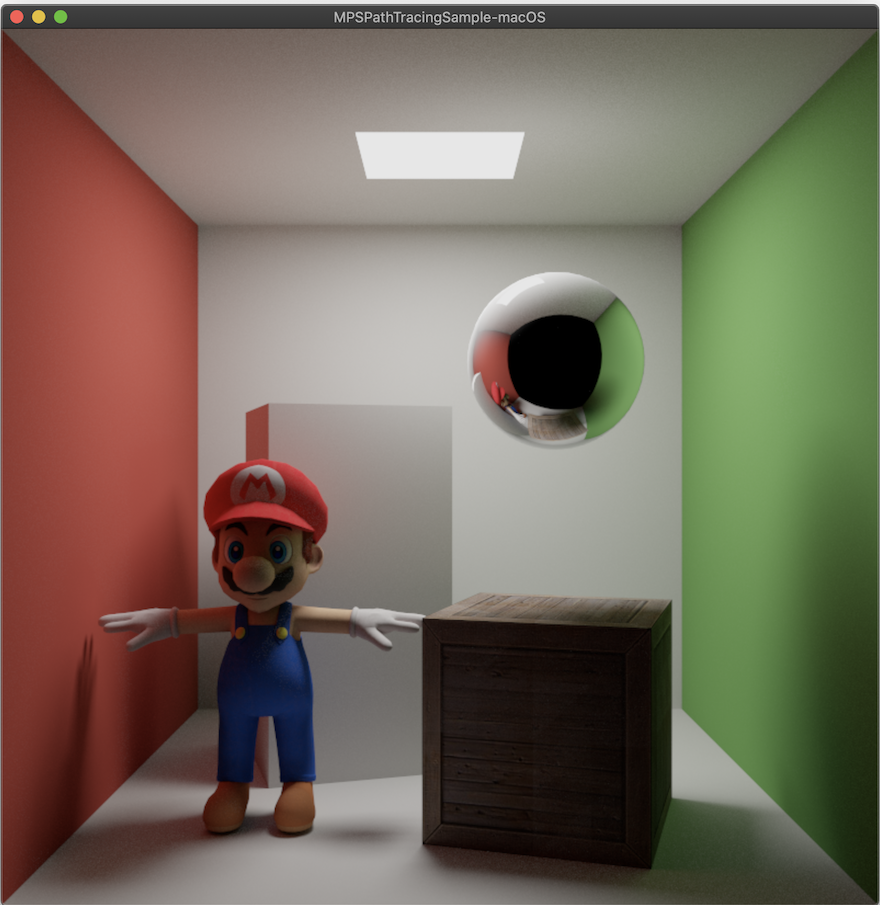
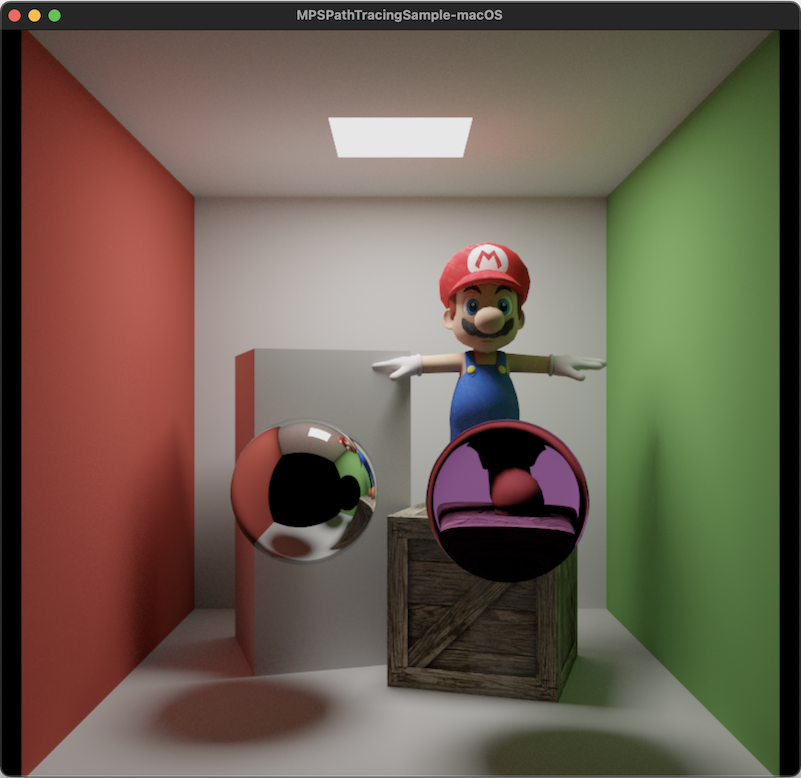
Added Reflection Blur and Refraction

diff --git a/MPSPathTracingSample/Renderer.mm b/MPSPathTracingSample/Renderer.mm
@@ -37,9 +37,11 @@ static const size_t intersectionStride = sizeof(MPSIntersectionDistancePrimitive
     id <MTLBuffer> _vertexNormalBuffer;
     id <MTLBuffer> _vertexColorBuffer;
     id <MTLBuffer> _vertexTextureCoordsBuffer;
-    id <MTLBuffer> _hasTextureBuffer;
+    id <MTLBuffer> _textureIndexBuffer;
     id <MTLBuffer> _reflectionBuffer;
+    id <MTLBuffer> _reflectionBlurBuffer;
     id <MTLBuffer> _refractionBuffer;
+    id <MTLBuffer> _refractionIndexBuffer;
 
     id <MTLBuffer> _rayBuffer;
     id <MTLBuffer> _shadowRayBuffer;
@@ -176,40 +178,46 @@ static const size_t intersectionStride = sizeof(MPSIntersectionDistancePrimitive
     matrix4x4_scale(0.5f, 1.98f, 0.5f);
     
     // Light source
-    createCube(FACE_MASK_POSITIVE_Y, vector3(1.0f, 1.0f, 1.0f), transform, true, 0, 0.0f, 0.0f, TRIANGLE_MASK_LIGHT);
+    createCube(FACE_MASK_POSITIVE_Y, vector3(1.0f, 1.0f, 1.0f), transform, true, 0, 0.0f, 0.0f, 0.0f, 0.0f, TRIANGLE_MASK_LIGHT);
     
     transform = matrix4x4_translation(0.0f, 1.0f, 0.0f) * matrix4x4_scale(2.0f, 2.0f, 2.0f);
     
     // Top, bottom, and back walls
-    createCube(FACE_MASK_NEGATIVE_Y | FACE_MASK_POSITIVE_Y | FACE_MASK_NEGATIVE_Z, vector3(0.725f, 0.71f, 0.68f), transform, true, false, 0.0f, 0.0f, TRIANGLE_MASK_GEOMETRY);
+    createCube(FACE_MASK_NEGATIVE_Y | FACE_MASK_POSITIVE_Y | FACE_MASK_NEGATIVE_Z, vector3(0.725f, 0.71f, 0.68f), transform, true, false, 0.0f, 0.0f, 0.0f, 0.0f, TRIANGLE_MASK_GEOMETRY);
     
     // Left wall
-    createCube(FACE_MASK_NEGATIVE_X, vector3(0.63f, 0.065f, 0.05f), transform, true, 0, 0.0f, 0.0f, TRIANGLE_MASK_GEOMETRY);
+    createCube(FACE_MASK_NEGATIVE_X, vector3(0.63f, 0.065f, 0.05f), transform, true, 0, 0.0f, 0.0f, 0.0f, 0.0f, TRIANGLE_MASK_GEOMETRY);
     
     // Right wall
-    createCube(FACE_MASK_POSITIVE_X, vector3(0.14f, 0.45f, 0.091f), transform, true, 0, 0.0f, 0.0f, TRIANGLE_MASK_GEOMETRY);
+    createCube(FACE_MASK_POSITIVE_X, vector3(0.14f, 0.45f, 0.091f), transform, true, 0, 0.0f, 0.0f, 0.0f, 0.0f, TRIANGLE_MASK_GEOMETRY);
     
-    transform = matrix4x4_translation(0.3275f, 0.3f, 0.3725f) *
+    transform = matrix4x4_translation(0.3275f, 0.3f, 0.0f) *
     matrix4x4_rotation(-0.3f, vector3(0.0f, 1.0f, 0.0f)) *
     matrix4x4_scale(0.6f, 0.6f, 0.6f);
     
     // Short box
-    createCube(FACE_MASK_ALL, vector3(0.725f, 0.725f, 0.725f), transform, false, 1, 0.0f, 0.0f, TRIANGLE_MASK_GEOMETRY);
+    createCube(FACE_MASK_ALL, vector3(0.725f, 0.725f, 0.725f), transform, false, 1, 0.0f, 0.0f, 0.0f, 0.0f, TRIANGLE_MASK_GEOMETRY);
     
     transform = matrix4x4_translation(-0.335f, 0.6f, -0.29f) *
     matrix4x4_rotation(0.3f, vector3(0.0f, 1.0f, 0.0f)) *
     matrix4x4_scale(0.6f, 1.2f, 0.6f);
     
     // Tall box
-    createCube(FACE_MASK_ALL, vector3(0.725f, 0.71f, 0.68f), transform, false, 0, 0.0f, 0.0f, TRIANGLE_MASK_GEOMETRY);
+    createCube(FACE_MASK_ALL, vector3(0.725f, 0.71f, 0.68f), transform, false, 0, 0.0f, 0.0f, 0.0f, 0.0f, TRIANGLE_MASK_GEOMETRY);
     
-    transform = matrix4x4_translation(0.3275f, 1.3f, 0.3725f) *
+    transform = matrix4x4_translation(0.3275f, 0.7f, 0.6f) *
     matrix4x4_rotation(1.9f, vector3(1.0f, 0.0f, 0.0f)) *
     matrix4x4_scale(0.25f, 0.25f, 0.25f);
 
-    createSphere(vector3(1.0f, 1.0f, 1.0f), transform, 0, 1.0f, 0.0f, TRIANGLE_MASK_GEOMETRY);
-    
-    transform = matrix4x4_translation(-0.5f, 0.01f, 0.3725f) *
+    createSphere(vector3(1.0f, 0.5f, 1.0f), transform, 0, 0.0f, 0.0f, 1.0f, 1.1f, TRIANGLE_MASK_GEOMETRY);
+
+    transform = matrix4x4_translation(-0.3275f, 0.7f, 0.3f) *
+    matrix4x4_rotation(1.9f, vector3(1.0f, 0.0f, 0.0f)) *
+    matrix4x4_scale(0.25f, 0.25f, 0.25f);
+
+    createSphere(vector3(1.0f, 1.0f, 1.0f), transform, 0, 1.0f, 0.0f, 0.0f, 0.0f, TRIANGLE_MASK_GEOMETRY);
+
+    transform = matrix4x4_translation(0.3275f, 0.6f, -0.1) *
     matrix4x4_rotation(0.01f, vector3(1.0f, 0.0f, 0.0f)) *
     matrix4x4_scale(0.01f, 0.01f, 0.01f);
 
@@ -217,7 +225,7 @@ static const size_t intersectionStride = sizeof(MPSIntersectionDistancePrimitive
     NSURL *url = [NSURL fileURLWithPath:path];
     MDLAsset *asset = [[MDLAsset alloc] initWithURL:url];
     MDLMesh *mesh = (MDLMesh*)[asset objectAtIndex:0];
-    createMesh(mesh, vector3(1.0f, 1.0f, 1.0f), transform, 2, 0.0f, 0.0f, TRIANGLE_MASK_GEOMETRY);
+    createMesh(mesh, vector3(1.0f, 1.0f, 1.0f), transform, 2, 0.0f, 0.0f, 0.0f, 0.0f, TRIANGLE_MASK_GEOMETRY);
 }
 
 - (void)createBuffers
@@ -247,9 +255,11 @@ static const size_t intersectionStride = sizeof(MPSIntersectionDistancePrimitive
     _vertexColorBuffer = [_device newBufferWithLength:colors.size() * sizeof(float3) options:options];
     _vertexNormalBuffer = [_device newBufferWithLength:normals.size() * sizeof(float3) options:options];
     _vertexTextureCoordsBuffer = [_device newBufferWithLength:textureCoords.size() * sizeof(float2) options:options];
-    _hasTextureBuffer = [_device newBufferWithLength:textureIndices.size() * sizeof(uint32_t) options:options];
+    _textureIndexBuffer = [_device newBufferWithLength:textureIndices.size() * sizeof(uint32_t) options:options];
     _reflectionBuffer = [_device newBufferWithLength:reflections.size() * sizeof(float1) options:options];
+    _reflectionBlurBuffer = [_device newBufferWithLength:reflectionBlurs.size() * sizeof(float1) options:options];
     _refractionBuffer = [_device newBufferWithLength:refractions.size() * sizeof(float1) options:options];
+    _refractionIndexBuffer = [_device newBufferWithLength:refractionIndices.size() * sizeof(float1) options:options];
     _triangleMaskBuffer = [_device newBufferWithLength:masks.size() * sizeof(uint32_t) options:options];
     
     // Copy vertex data into buffers
@@ -257,9 +267,11 @@ static const size_t intersectionStride = sizeof(MPSIntersectionDistancePrimitive
     memcpy(_vertexColorBuffer.contents, &colors[0], _vertexColorBuffer.length);
     memcpy(_vertexNormalBuffer.contents, &normals[0], _vertexNormalBuffer.length);
     memcpy(_vertexTextureCoordsBuffer.contents, &textureCoords[0], _vertexTextureCoordsBuffer.length);
-    memcpy(_hasTextureBuffer.contents, &textureIndices[0], _hasTextureBuffer.length);
+    memcpy(_textureIndexBuffer.contents, &textureIndices[0], _textureIndexBuffer.length);
     memcpy(_reflectionBuffer.contents, &reflections[0], _reflectionBuffer.length);
+    memcpy(_reflectionBlurBuffer.contents, &reflectionBlurs[0], _reflectionBlurBuffer.length);
     memcpy(_refractionBuffer.contents, &refractions[0], _refractionBuffer.length);
+    memcpy(_refractionIndexBuffer.contents, &refractionIndices[0], _refractionIndexBuffer.length);
     memcpy(_triangleMaskBuffer.contents, &masks[0], _triangleMaskBuffer.length);
     
     // When using managed buffers, we need to indicate that we modified the buffer so that the GPU
@@ -269,9 +281,11 @@ static const size_t intersectionStride = sizeof(MPSIntersectionDistancePrimitive
     [_vertexColorBuffer didModifyRange:NSMakeRange(0, _vertexColorBuffer.length)];
     [_vertexNormalBuffer didModifyRange:NSMakeRange(0, _vertexNormalBuffer.length)];
     [_vertexTextureCoordsBuffer didModifyRange:NSMakeRange(0, _vertexTextureCoordsBuffer.length)];
-    [_hasTextureBuffer didModifyRange:NSMakeRange(0, _hasTextureBuffer.length)];
+    [_textureIndexBuffer didModifyRange:NSMakeRange(0, _textureIndexBuffer.length)];
     [_reflectionBuffer didModifyRange:NSMakeRange(0, _reflectionBuffer.length)];
+    [_reflectionBlurBuffer didModifyRange:NSMakeRange(0, _reflectionBlurBuffer.length)];
     [_refractionBuffer didModifyRange:NSMakeRange(0, _refractionBuffer.length)];
+    [_refractionIndexBuffer didModifyRange:NSMakeRange(0, _refractionIndexBuffer.length)];
     [_triangleMaskBuffer didModifyRange:NSMakeRange(0, _triangleMaskBuffer.length)];
 #endif
 }
@@ -369,7 +383,8 @@ static const size_t intersectionStride = sizeof(MPSIntersectionDistancePrimitive
     _frameIndex = 0;
 }
 
-- (void)updateUniforms {
+- (void)updateUniforms
+{
     // Update this frame's uniforms
     _uniformBufferOffset = alignedUniformsSize * _uniformBufferIndex;
     
@@ -485,11 +500,13 @@ static const size_t intersectionStride = sizeof(MPSIntersectionDistancePrimitive
         [computeEncoder setBuffer:_vertexColorBuffer        offset:0                    atIndex:4];
         [computeEncoder setBuffer:_vertexNormalBuffer       offset:0                    atIndex:5];
         [computeEncoder setBuffer:_vertexTextureCoordsBuffer offset:0                    atIndex:6];
-        [computeEncoder setBuffer:_hasTextureBuffer         offset:0                    atIndex:7];
+        [computeEncoder setBuffer:_textureIndexBuffer         offset:0                    atIndex:7];
         [computeEncoder setBuffer:_reflectionBuffer         offset:0                    atIndex:8];
-        [computeEncoder setBuffer:_refractionBuffer         offset:0                    atIndex:9];
-        [computeEncoder setBuffer:_triangleMaskBuffer       offset:0                    atIndex:10];
-        [computeEncoder setBytes:&bounce              length:sizeof(bounce)       atIndex:11];
+        [computeEncoder setBuffer:_reflectionBlurBuffer         offset:0                    atIndex:9];
+        [computeEncoder setBuffer:_refractionBuffer         offset:0                    atIndex:10];
+        [computeEncoder setBuffer:_refractionIndexBuffer         offset:0                    atIndex:11];
+        [computeEncoder setBuffer:_triangleMaskBuffer       offset:0                    atIndex:12];
+        [computeEncoder setBytes:&bounce              length:sizeof(bounce)       atIndex:13];
         
         [computeEncoder setTexture:_randomTexture    atIndex:0];
         [computeEncoder setTexture:_colorTexture[0]     atIndex:1];

diff --git a/MPSPathTracingSample/Scene.mm b/MPSPathTracingSample/Scene.mm
@@ -15,7 +15,9 @@ std::vector<vector_float3> normals;
 std::vector<vector_float2> textureCoords;
 std::vector<uint32_t> textureIndices;
 std::vector<float> reflections;
+std::vector<float> reflectionBlurs;
 std::vector<float> refractions;
+std::vector<float> refractionIndices;
 std::vector<vector_float3> colors;
 std::vector<uint32_t> masks;
 
@@ -39,7 +41,9 @@ void createCubeFace(std::vector<float3> & vertices,
                     bool inwardNormals,
                     unsigned int textureIndex,
                     float reflection,
+                    float reflectionBlur,
                     float refraction,
+                    float refractionIndex,
                     unsigned int triangleMask)
 {
     float3 v0 = cubeVertices[i0];
@@ -64,7 +68,9 @@ void createCubeFace(std::vector<float3> & vertices,
 
     for (int i = 0; i < 6; i++) {
         reflections.push_back(reflection);
+        reflectionBlurs.push_back(reflectionBlur);
         refractions.push_back(refraction);
+        refractionIndices.push_back(refractionIndex);
         textureIndices.push_back(textureIndex);
     }
 
@@ -95,7 +101,9 @@ void createCube(unsigned int faceMask,
                 bool inwardNormals,
                 unsigned int textureIndex,
                 float reflection,
+                float reflectionBlur,
                 float refraction,
+                float refractionIndex,
                 unsigned int triangleMask)
 {
     float3 cubeVertices[] = {
@@ -119,22 +127,22 @@ void createCube(unsigned int faceMask,
     }
     
     if (faceMask & FACE_MASK_NEGATIVE_X)
-        createCubeFace(vertices, normals, textureCoords, colors, cubeVertices, color, 0, 4, 6, 2, inwardNormals, textureIndex, reflection, refraction, triangleMask);
+        createCubeFace(vertices, normals, textureCoords, colors, cubeVertices, color, 0, 4, 6, 2, inwardNormals, textureIndex, reflection, reflectionBlur, refraction, refractionIndex, triangleMask);
     
     if (faceMask & FACE_MASK_POSITIVE_X)
-        createCubeFace(vertices, normals, textureCoords, colors, cubeVertices, color, 1, 3, 7, 5, inwardNormals, textureIndex, reflection, refraction, triangleMask);
+        createCubeFace(vertices, normals, textureCoords, colors, cubeVertices, color, 1, 3, 7, 5, inwardNormals, textureIndex, reflection, reflectionBlur, refraction, refractionIndex, triangleMask);
     
     if (faceMask & FACE_MASK_NEGATIVE_Y)
-        createCubeFace(vertices, normals, textureCoords, colors, cubeVertices, color, 0, 1, 5, 4, inwardNormals, textureIndex, reflection, refraction, triangleMask);
+        createCubeFace(vertices, normals, textureCoords, colors, cubeVertices, color, 0, 1, 5, 4, inwardNormals, textureIndex, reflection, reflectionBlur, refraction, refractionIndex, triangleMask);
     
     if (faceMask & FACE_MASK_POSITIVE_Y)
-        createCubeFace(vertices, normals, textureCoords, colors, cubeVertices, color, 2, 6, 7, 3, inwardNormals, textureIndex, reflection, refraction, triangleMask);
+        createCubeFace(vertices, normals, textureCoords, colors, cubeVertices, color, 2, 6, 7, 3, inwardNormals, textureIndex, reflection, reflectionBlur, refraction, refractionIndex, triangleMask);
     
     if (faceMask & FACE_MASK_NEGATIVE_Z)
-        createCubeFace(vertices, normals, textureCoords, colors, cubeVertices, color, 0, 2, 3, 1, inwardNormals, textureIndex, reflection, refraction, triangleMask);
+        createCubeFace(vertices, normals, textureCoords, colors, cubeVertices, color, 0, 2, 3, 1, inwardNormals, textureIndex, reflection, reflectionBlur, refraction, refractionIndex, triangleMask);
     
     if (faceMask & FACE_MASK_POSITIVE_Z)
-        createCubeFace(vertices, normals, textureCoords, colors, cubeVertices, color, 4, 5, 7, 6, inwardNormals, textureIndex, reflection, refraction, triangleMask);
+        createCubeFace(vertices, normals, textureCoords, colors, cubeVertices, color, 4, 5, 7, 6, inwardNormals, textureIndex, reflection, reflectionBlur, refraction, refractionIndex, triangleMask);
 }
 
 void createTriangle(std::vector<float3> & vertices,
@@ -147,12 +155,16 @@ void createTriangle(std::vector<float3> & vertices,
                     float3 color,
                     unsigned int textureIndex,
                     float reflection,
+                    float reflectionBlur,
                     float refraction,
+                    float refractionIndex,
                     unsigned int triangleMask)
 {
     for (int i = 0; i < 3; i++) {
         reflections.push_back(reflection);
+        reflectionBlurs.push_back(reflectionBlur);
         refractions.push_back(refraction);
+        refractionIndices.push_back(refractionIndex);
         textureIndices.push_back(textureIndex);
     }
     
@@ -173,7 +185,9 @@ void createSphere(vector_float3 color,
                   matrix_float4x4 transform,
                   unsigned int textureIndex,
                   float reflection,
+                  float reflectionBlur,
                   float refraction,
+                  float refractionIndex,
                   unsigned int triangleMask) {
     float pi = 22.0f / 7.0f;
     float deltaTheta = pi / (RING_STEPS + 2);
@@ -210,7 +224,7 @@ void createSphere(vector_float3 color,
                 (transform * vector4(v2, 0.0f)).xyz};
             
             float2 textureCoords0[] = {0.0f, 1.0f};
-            createTriangle(vertices, normals, textureCoords, colors, triangleVertices0, normal0, textureCoords0, color, textureIndex, reflection, refraction, triangleMask);
+            createTriangle(vertices, normals, textureCoords, colors, triangleVertices0, normal0, textureCoords0, color, textureIndex, reflection, reflectionBlur, refraction, refractionIndex, triangleMask);
             
             float3 triangleVertices1[] = {
                 (transform * vector4(v3, 1.0f)).xyz,
@@ -223,17 +237,22 @@ void createSphere(vector_float3 color,
                 (transform * vector4(v1, 0.0f)).xyz};
             
             float2 textureCoords1[] = {0.0f, 1.0f};
-            createTriangle(vertices, normals, textureCoords, colors, triangleVertices1, normal1, textureCoords1, color, textureIndex, reflection, refraction, triangleMask);
+            createTriangle(vertices, normals, textureCoords, colors, triangleVertices1, normal1, textureCoords1, color, textureIndex, reflection, reflectionBlur, refraction, refractionIndex, triangleMask);
             phi += deltaPhi;
         }
         theta += deltaTheta;
     }
-    
-//    drawVertex(0,0,1) //north pole end cap
-//    drawVertex(0, 0, -1) //south pole end cap
 }
 
-void createMesh(MDLMesh* mesh, vector_float3 color, matrix_float4x4 transform, unsigned int textureIndex, float reflection, float refraction, unsigned int triangleMask) {
+void createMesh(MDLMesh* mesh,
+                vector_float3 color,
+                matrix_float4x4 transform,
+                unsigned int textureIndex,
+                float reflection,
+                float reflectionBlur,
+                float refraction,
+                float refractionIndex,
+                unsigned int triangleMask) {
     for (int i = 0; i < (int)mesh.submeshes.count; i++) {
         MDLSubmesh *subMesh = mesh.submeshes[i];
         NSLog(@"Submesh Index count: %d", (int)subMesh.indexCount);
@@ -249,7 +268,6 @@ void createMesh(MDLMesh* mesh, vector_float3 color, matrix_float4x4 transform, u
 
         NSLog(@"Vertex Buffer Count: %d", (int)mesh.vertexCount);
         for (int i = 0; i < (int)subMesh.indexCount; i+=3) {
-//            NSLog(@"Triangle Indices: %d, %d, %d", (int)indices[i], (int)indices[i+1], (int)indices[i+2]);
             float3 v0 = vector3((float)vertexData[indices[i+0]*8 + 0], (float)vertexData[indices[i+0]*8 + 1], (float)vertexData[indices[i+0]*8 + 2]);
             float3 v1 = vector3((float)vertexData[indices[i+1]*8 + 0], (float)vertexData[indices[i+1]*8 + 1], (float)vertexData[indices[i+1]*8 + 2]);
             float3 v2 = vector3((float)vertexData[indices[i+2]*8 + 0], (float)vertexData[indices[i+2]*8 + 1], (float)vertexData[indices[i+2]*8 + 2]);
@@ -271,11 +289,7 @@ void createMesh(MDLMesh* mesh, vector_float3 color, matrix_float4x4 transform, u
             float2 t2 = vector2((float)vertexData[indices[i+2]*8 + 6], 1.0f - (float)vertexData[indices[i+2]*8 + 7]);
             float2 triangleTextureCoords[] = { t0, t1, t2};
 
-            createTriangle(vertices, normals, textureCoords, colors, triangleVertices, triangleNormals, triangleTextureCoords, color, textureIndex, reflection, refraction, triangleMask);
-            
-//            NSLog(@"Vertex Position: %f, %f, %f", (float)vertexData[i*8 + 0], (float)vertexData[i*8 + 1], (float)vertexData[i*8 + 2]);
-//            NSLog(@"Vertex Normal: %f, %f, %f", (float)vertexData[i*8 + 3], (float)vertexData[i*8 + 4], (float)vertexData[i*8 + 5]);
-//            NSLog(@"Vertex Texture Coord: %f, %f", (float)vertexData[i*8 + 6], (float)vertexData[i*8 + 7]);
+            createTriangle(vertices, normals, textureCoords, colors, triangleVertices, triangleNormals, triangleTextureCoords, color, textureIndex, reflection, reflectionBlur, refraction, refractionIndex, triangleMask);
         }
     }
 }

diff --git a/MPSPathTracingSample/Scene.h b/MPSPathTracingSample/Scene.h
@@ -17,7 +17,9 @@ extern std::vector<vector_float3> normals;
 extern std::vector<vector_float2> textureCoords;
 extern std::vector<uint32_t> textureIndices;
 extern std::vector<float> reflections;
+extern std::vector<float> reflectionBlurs;
 extern std::vector<float> refractions;
+extern std::vector<float> refractionIndices;
 extern std::vector<vector_float3> colors;
 extern std::vector<uint32_t> masks;
 
@@ -36,14 +38,18 @@ void createCube(unsigned int faceMask,
                 bool inwardNormals,
                 unsigned int textureIndex,
                 float reflection,
+                float reflectionBlur,
                 float refraction,
+                float refractionIndex,
                 unsigned int triangleMask);
 
 void createSphere(vector_float3 color,
                   matrix_float4x4 transform,
                   unsigned int textureIndex,
                   float reflection,
+                  float reflectionBlur,
                   float refraction,
+                  float refractionIndex,
                   unsigned int triangleMask);
 
 void createMesh(MDLMesh* mesh,
@@ -51,7 +57,9 @@ void createMesh(MDLMesh* mesh,
                 matrix_float4x4 transform,
                 unsigned int textureIndex,
                 float reflection,
+                float reflectionBlur,
                 float refraction,
+                float refractionIndex,
                 unsigned int triangleMask);
 
 #endif /* Scene_h */

diff --git a/README.md b/README.md
@@ -2,7 +2,7 @@
 
 Use the Metal Performance Shaders ray intersector to perform ray-traced rendering.
 
-***Note: This repo is based on Apple's [Metal for Accelerating Ray Tracing](https://developer.apple.com/documentation/metalperformanceshaders/metal_for_accelerating_ray_tracing) example available at the Developer portal. The features like reflection, OBJ Import and texture mapping are added on top of the original codebase.***
+***Note: This repo is based on Apple's [Metal for Accelerating Ray Tracing](https://developer.apple.com/documentation/metalperformanceshaders/metal_for_accelerating_ray_tracing) example available at the Developer portal. The features like reflection, refraction, OBJ Import and texture mapping are added on top of the original codebase.***
 
 ## Final Output
 ![Ray tracing on Metal devices with OBJ file import with texture mapping and reflection.](Documentation/final.png)
@@ -251,5 +251,31 @@ if (reflectionIndex > 0.0f) {
     ray.mask = RAY_MASK_SECONDARY;
 } else {
 ```
+
+## Refraction for transparent surface
+
+![Image shows fully reflective spheres](Documentation/final.png)
+
+If the surface has transparency value and refraction index, the ray is refract through the surface by calculating the normal using refract function. 
+
+```
+float refractionIndexValue = interpolateVertexAttribute(refractionIndex, intersection);
+bool inside = false;
+if (dot(ray.direction, surfaceNormal) > 0) {
+    inside = true;
+    surfaceNormal = -surfaceNormal;
+}
+float eta = (inside) ? refractionIndexValue : 1.0f / refractionIndexValue;
+float3 rayDirection = refract(ray.direction.xyz, surfaceNormal, eta);
+
+ray.origin = intersectionPoint + rayDirection * 1e-3f;
+ray.direction = rayDirection;
+ray.color = color * refractionValue;
+ray.mask = RAY_MASK_PRIMARY;
+ray.maxDistance = INFINITY;
+shadowRay.maxDistance = -1.0f;
+
+```
+
 
 
